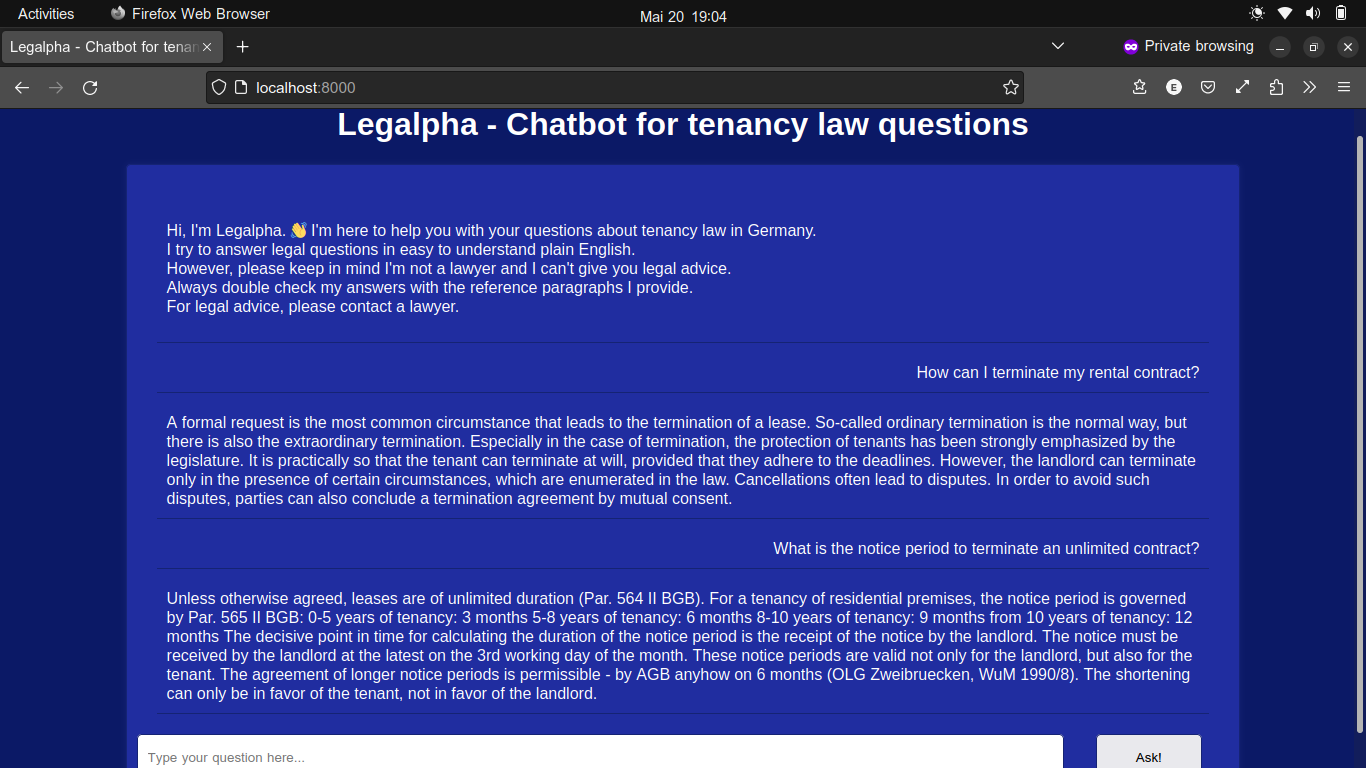
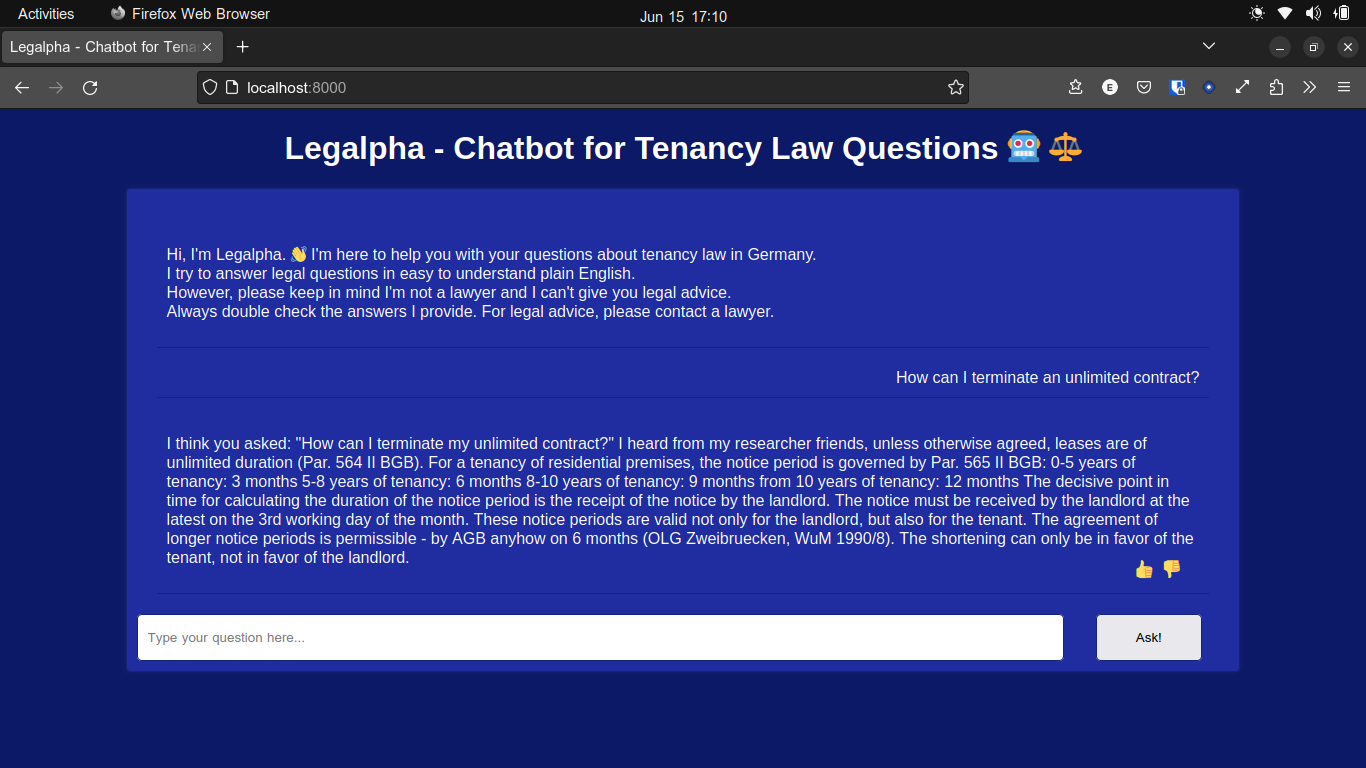
minor changes

diff --git a/templates/index.html b/templates/index.html
@@ -2,14 +2,14 @@
 
 <html>
   <head>
-    <title>Legalpha - Chatbot for tenancy law questions</title>
+    <title>Legalpha - Chatbot for Tenancy Law Questions</title>
     <meta name="viewport" content="width=device-width, initial-scale=1.0">
     <link href="/static/style.css" rel="stylesheet" media="screen">
     <script src="/static/script.js"></script>
   </head>
   <body>
     <div class="header">
-        <h1> Legalpha - The chatbot for tenancy law questions </h1>
+        <h1> Legalpha - Chatbot for Tenancy Law Questions 🤖 ⚖ </h1>
     </div>
     <div class="chat">
         <div class="messages">

diff --git a/README.md b/README.md
@@ -1,6 +1,6 @@
 # Legalpha
 
-## The Chatbot for Tenancy Law Questions 🤖 ⚖
+## Chatbot for Tenancy Law Questions 🤖 ⚖
 
 ![Image](./screenshots/1.png)
 
